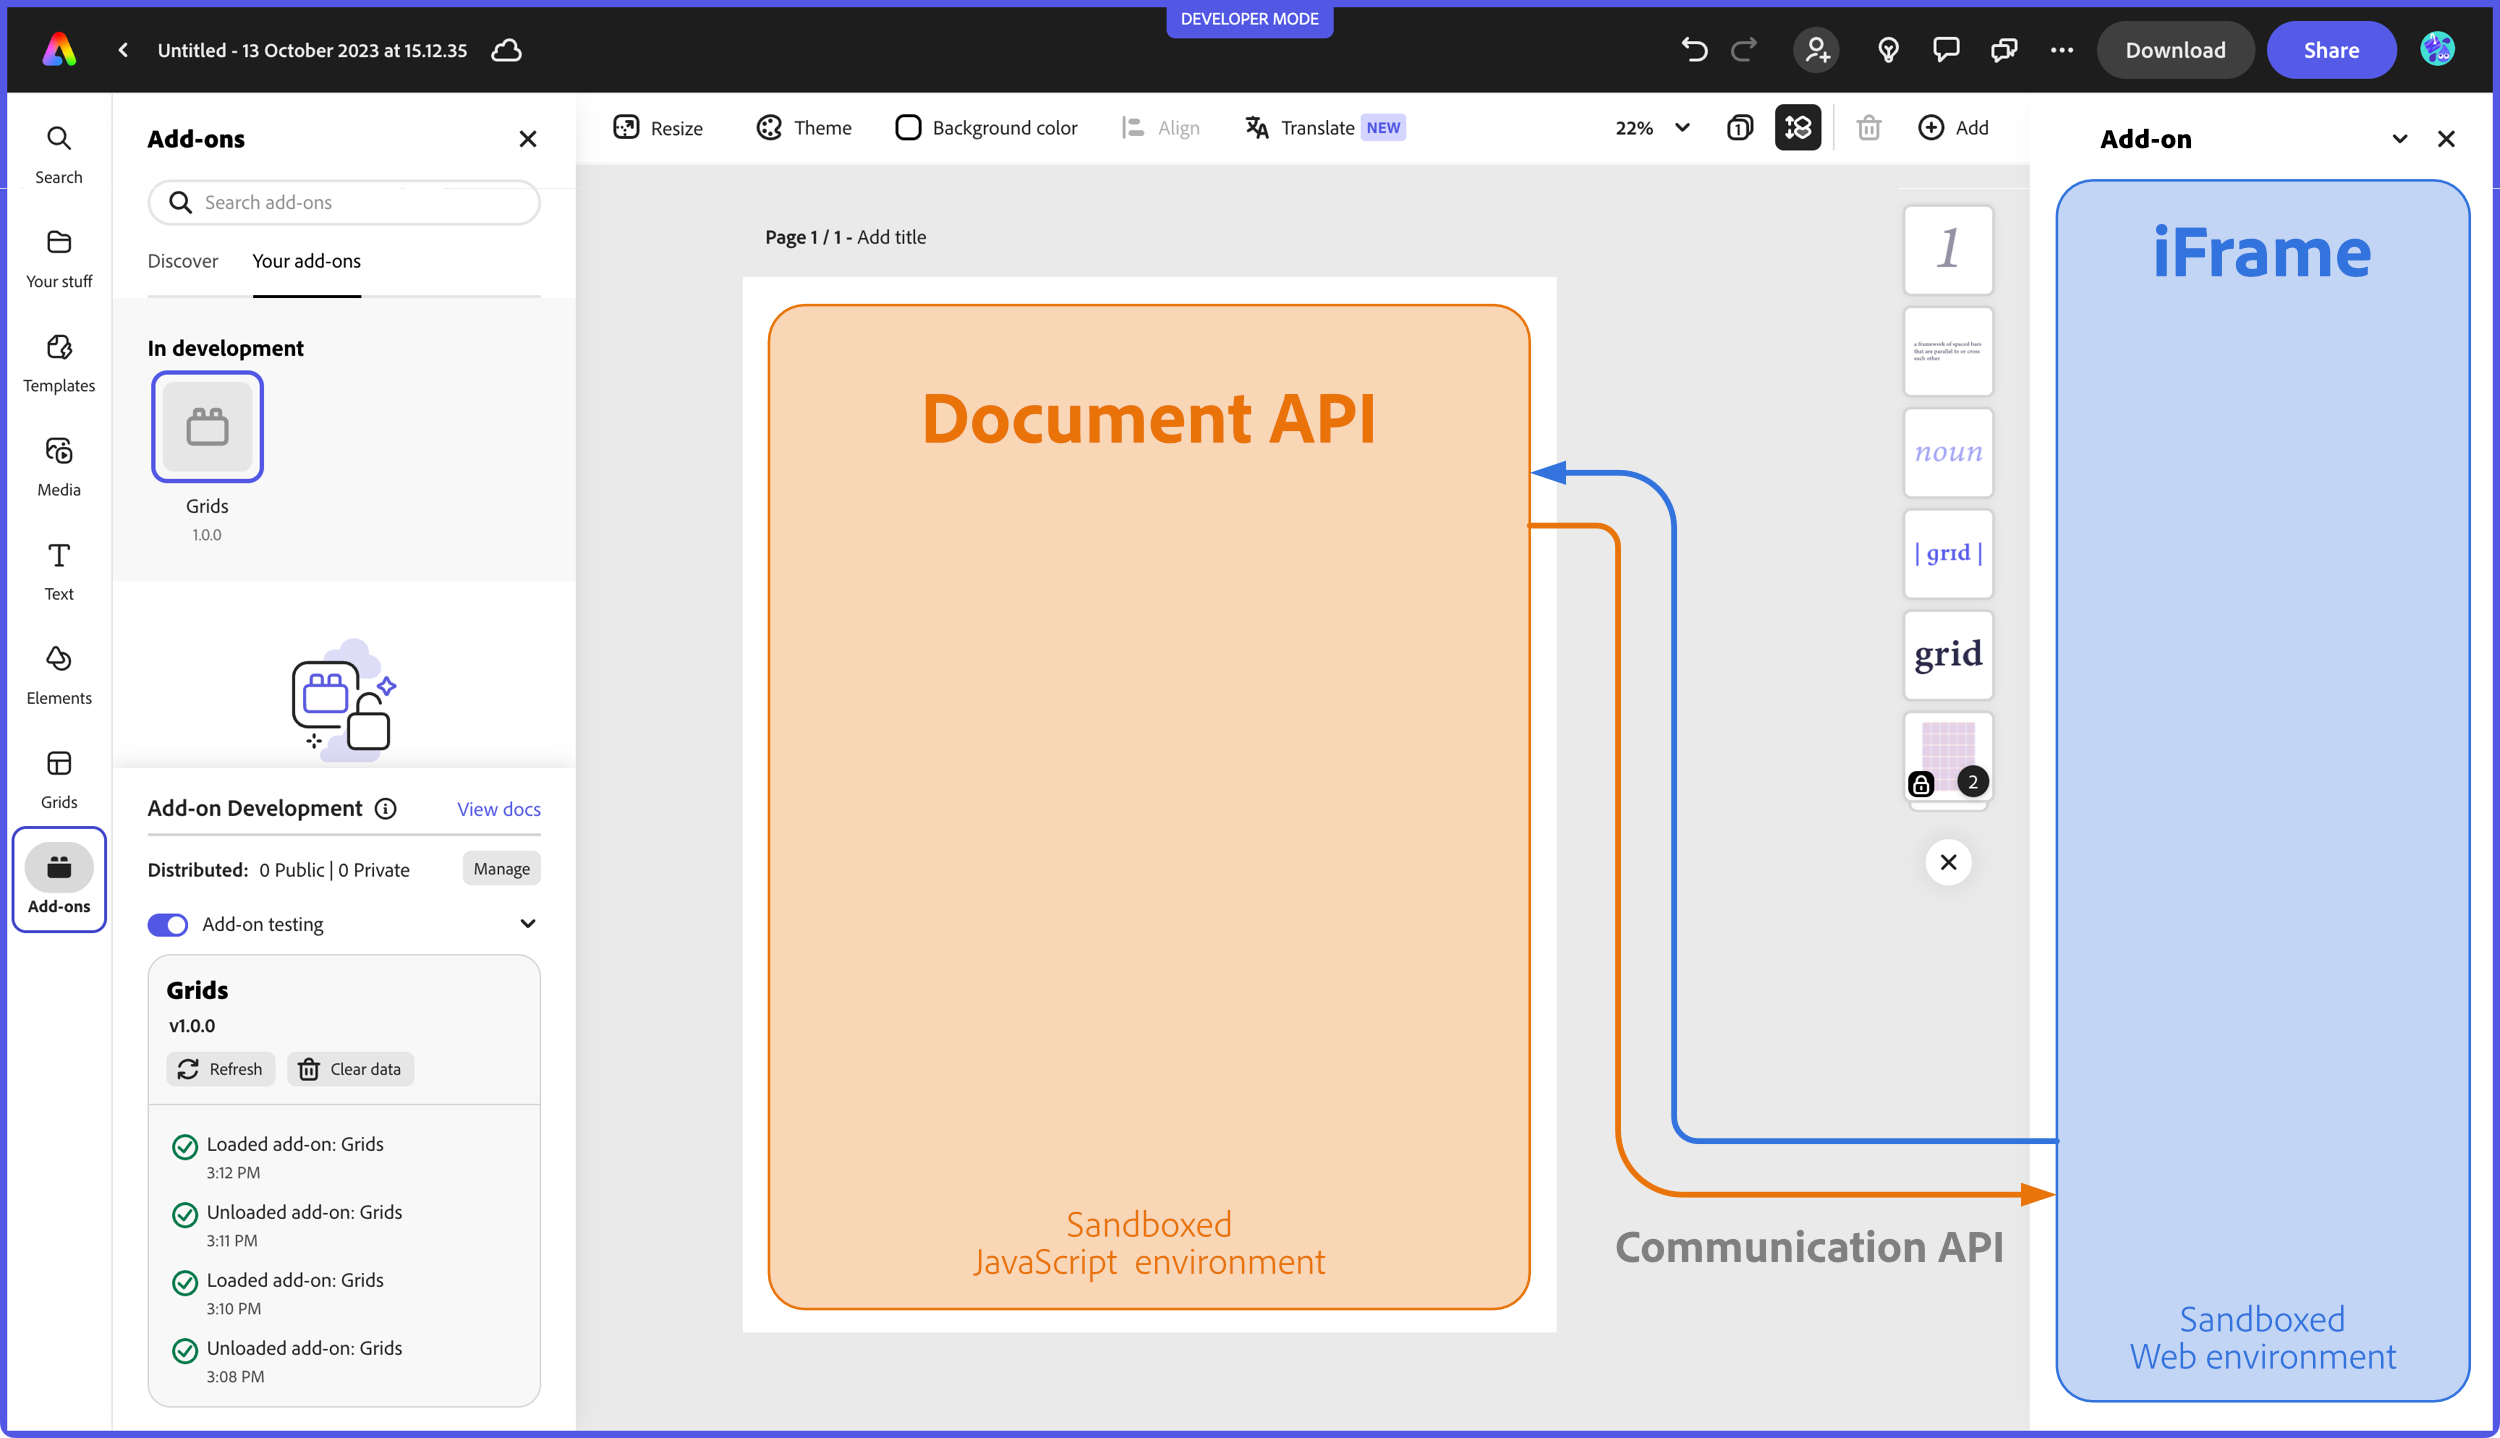
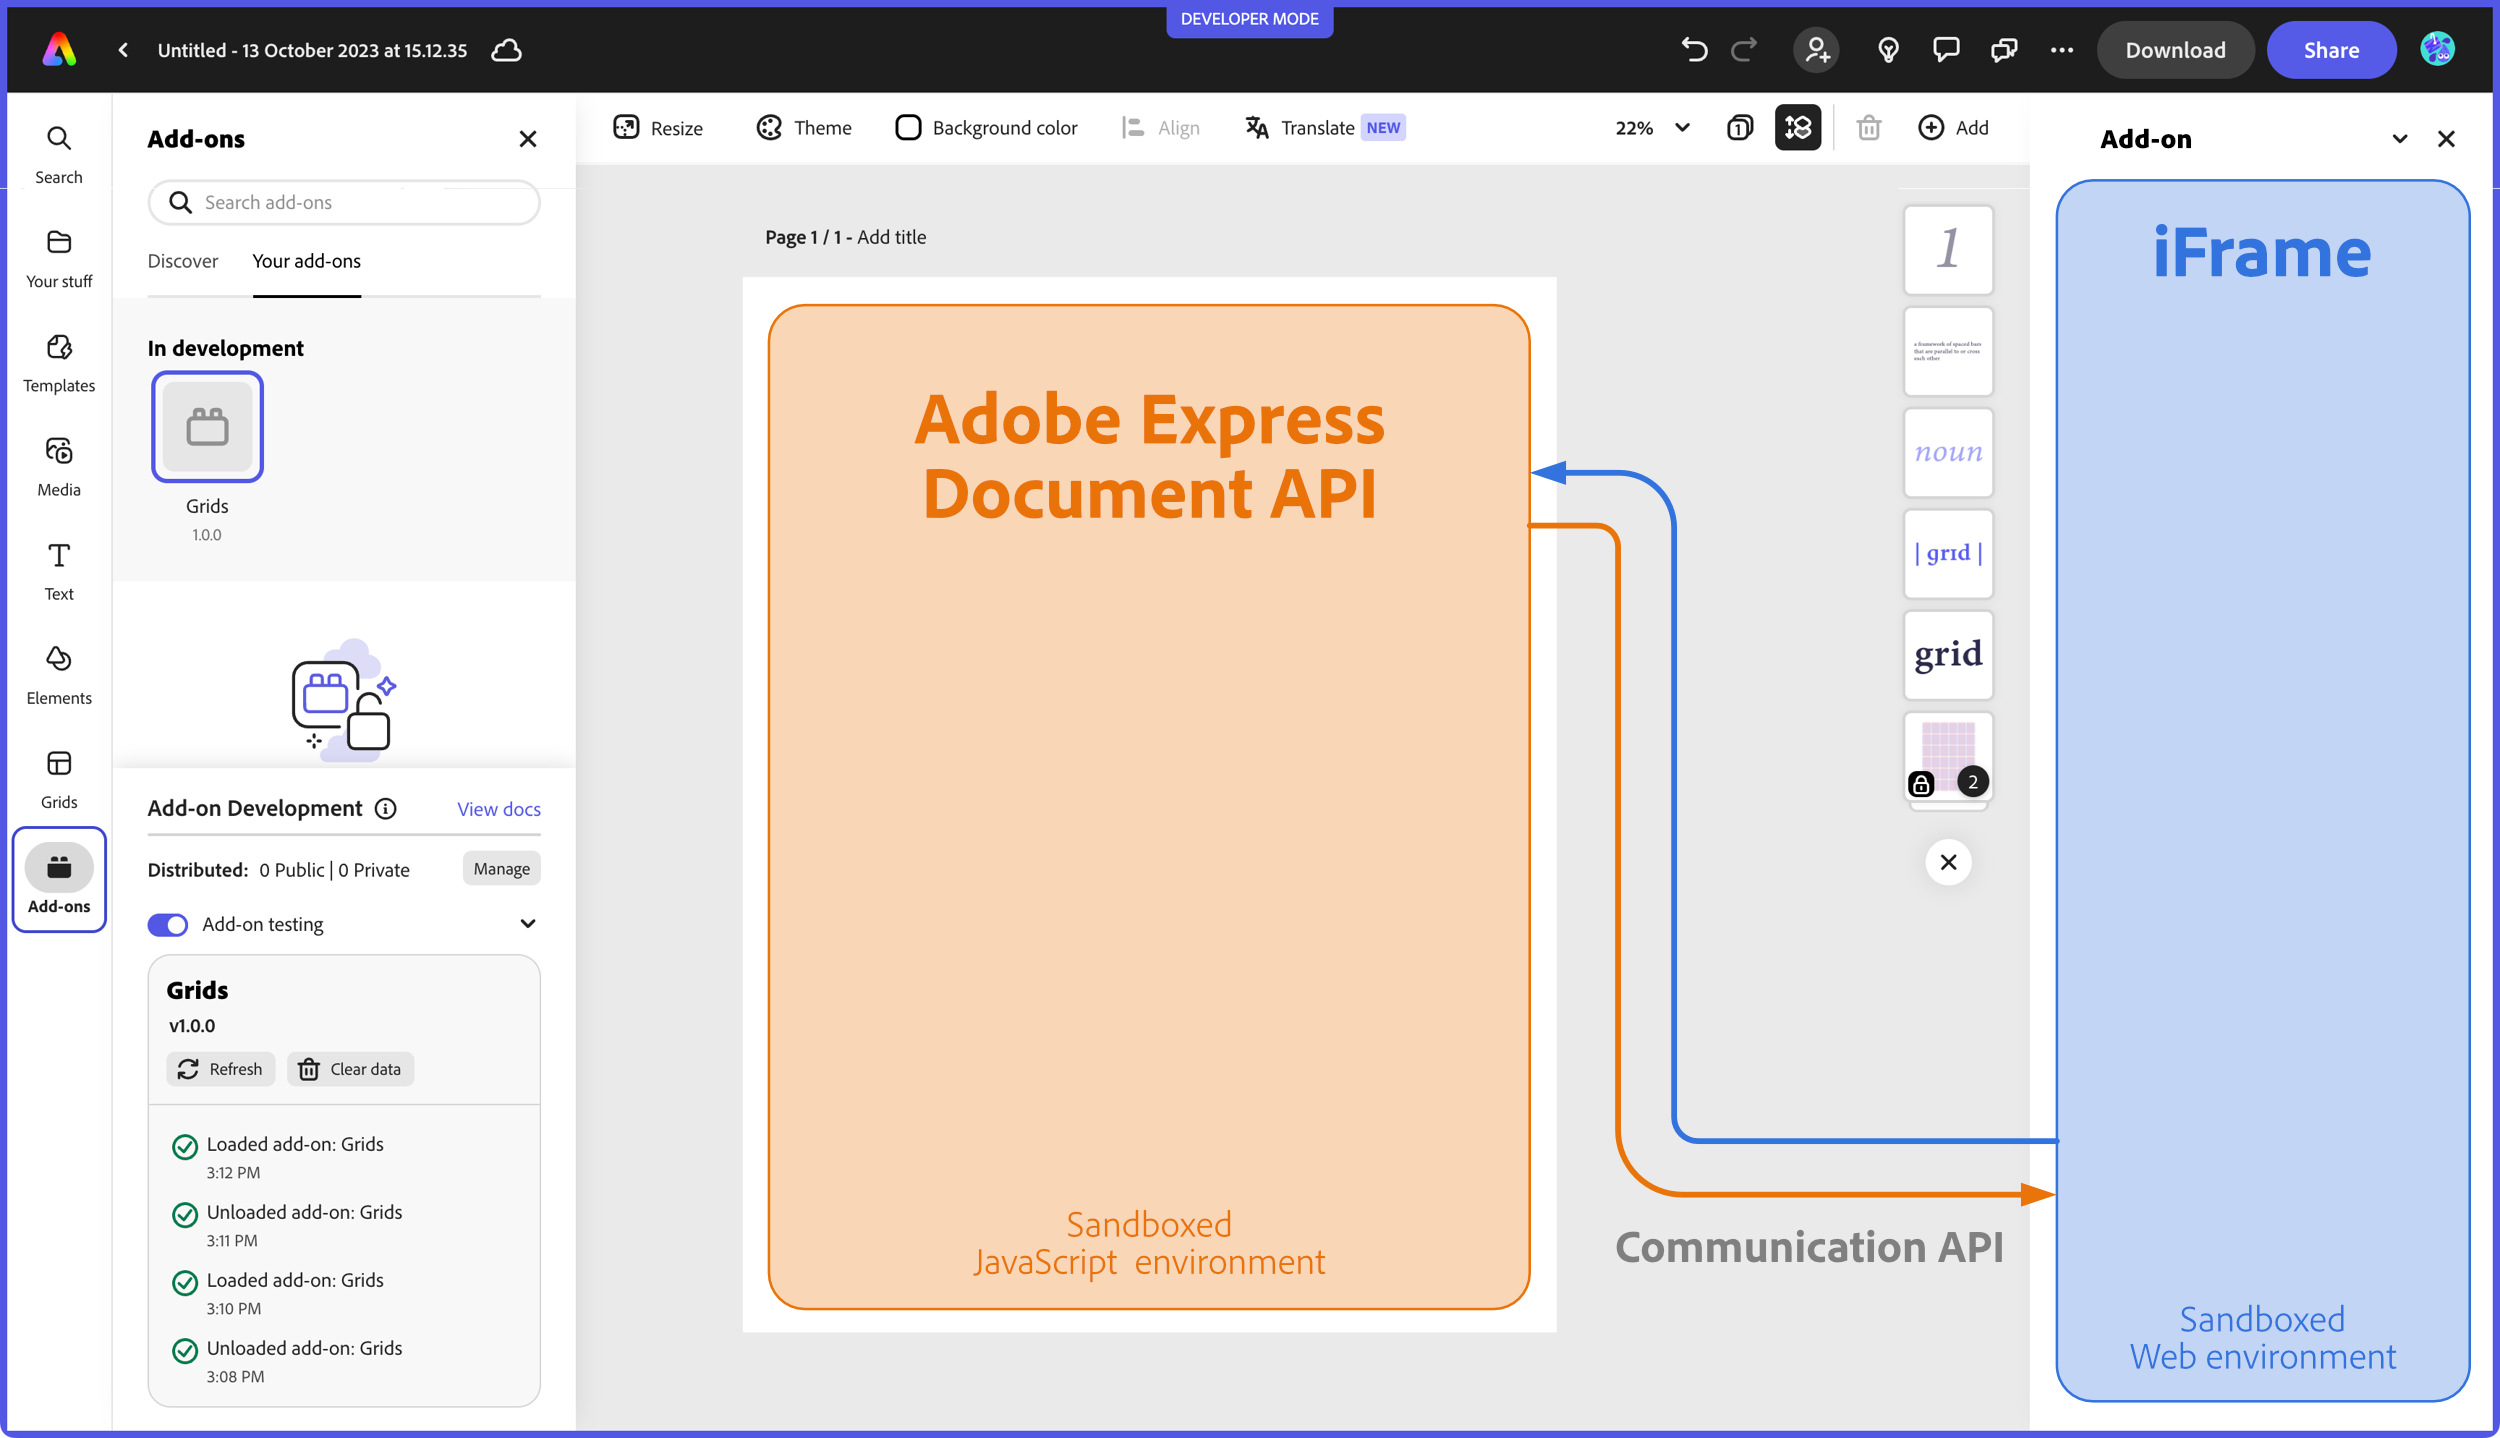
Align with HZ terminology Adobe Express Document API Authoring Sandbox (nee Script Runtime)

Changed region(s): [[0.3432, 0.2754, 0.5616, 0.3672]]

diff --git a/src/pages/guides/getting_started/tut.md b/src/pages/guides/getting_started/tut.md
@@ -2,7 +2,8 @@
 keywords:
   - Adobe Express
   - Express Add-on SDK
-  - Express Editor
+  - Express Document API
+  - Authoring Sandbox
   - Adobe Express
   - Add-on SDK
   - SDK
@@ -10,20 +11,19 @@ keywords:
   - Extend
   - Extensibility
   - API
-  - Document API
-title: Document API tutorial
-description: This is a Document API in-depth tutorial
+title: Adobe Express Document API tutorial
+description: This is an Adobe Express Document API in-depth tutorial
 contributors:
   - https://github.com/undavide
 ---
 
-# Document API tutorial
+# Adobe Express Document API tutorial
 
-This tutorial will guide you through the creation of your first Express add-on based on the Document API.
+This tutorial will guide you through the creation of your first Express add-on based on the Adobe Express Document API.
 
 ## Introduction
 
-Hello, and welcome to this Document API tutorial, where we'll build together a **fully functional Grids System add-on** from scratch. Grid systems are widely used in the design world to bring structure and consistency to all visual content, from flyers to web pages or social media posts.
+Hello, and welcome to this Adobe Express Document API tutorial, where we'll build together a **fully functional Grids System add-on** from scratch. Grid systems are widely used in the design world to bring structure and consistency to all visual content, from flyers to web pages or social media posts.
 
 ![](img/tut/grid-addon.png)
 
@@ -40,11 +40,11 @@ Your add-on will allow users to create a variable number of rows and columns, co
 <!-- List block here -->
 <ListBlock slots="text1, text2" repeat="4" iconColor="#2ac3a2" icon="disc" variant="fullWidth" />
 
-iFrame and Script Runtime communication
+iFrame and Authoring Sandbox communication
 
 Spectrum Web Components
 
-Document API
+Adobe Express Document API
 
 Color Pickers
 
@@ -58,10 +58,10 @@ Context permanence
 
 ### Getting Started with the Document API
 
-As part of the [Script Runtime](/references/scriptruntime/index.md), the Document API is a powerful tool that extends the capabilities of Adobe Express add-ons, offering direct interaction with the open document. Let's take a moment to review the difference between the two core components of add-ons' architecture.
+As part of the [Authoring Sandbox](/references/scriptruntime/index.md), the Adobe Express Document API (from now on, Document API) is a powerful tool that extends the capabilities of Adobe Express add-ons, offering direct interaction with the open document. Let's take a moment to review the difference between the two core components of add-ons' architecture.
 
 - The **iFrame** hosts the add-on User Interface and runs its internal logic. You can think about it as a web application operating in a sandboxed environment: it needs to be separate from the rest of the Adobe Express content for security reasons, which is precisely why the add-on is hosted within an `<iframe>` element (a detailed technical description is found [here](/guides/develop/context.md#iframe-sandbox)). If you come from a CEP/UXP background, it's akin to developing the panel of an extension or plugin.
-- The **Script Runtime**: allows you to operate on the document. It's a sandboxed JavaScript environment that communicates with the iFrame (thanks to the [Communication API](/references/scriptruntime/communication/)), providing access to the [Document API](/references/scriptruntime/editor/). Drawing the parallel with CEP and UXP again, it represents scripting; that is, the possibility to drive Adobe Express programmatically and, for example, add pages or artboards, create new shapes, rotate or group them, etc.
+- The **Authoring Sandbox**: allows you to operate on the document. It's a sandboxed JavaScript environment that communicates with the iFrame (thanks to the [Communication API](/references/scriptruntime/communication/)), providing access to the [Document API](/references/scriptruntime/editor/). Drawing the parallel with CEP and UXP again, it represents scripting; that is, the possibility to drive Adobe Express programmatically and, for example, add pages or artboards, create new shapes, rotate or group them, etc.
 
 This is a high-level overview of the overall structure; while the implementation has more technical nuances, there's no need to dive deeper now.
 
@@ -79,7 +79,7 @@ npm run start
 
 This will install the required dependencies, build the project, and then serve it locally on port 5241; if you need more clarification about how to load an add-on in Adobe Express, please refer to the [quickstart](/guides/getting_started/quickstart.md) guide for a step-by-step walkthrough.
 
-Before jumping into the code, let's look at how the project is structured. At the time of this writing, the CLI provides a few templates, but Only ReactJS-based ones include the Script Runtime while also having a Webpack configuration, which is preferable when using Spectrum Web Components (SWC). This project provides support for both of them.
+Before jumping into the code, let's look at how the project is structured. At the time of this writing, the CLI provides a few templates, but Only ReactJS-based ones include the Authoring Sandbox while also having a Webpack configuration, which is preferable when using Spectrum Web Components (SWC). This project provides support for both of them.
 
 ![](img/tut/grid-addon-folder-structure.png)
 
@@ -112,8 +112,8 @@ If you're wondering about `script/shapeUtils.js`, it is an auxiliary file contai
 
 <head>
     <meta charset="UTF-8" />
-    <meta name="description" content="Adobe Express Add-on tutorial using JavaScript and the Script Runtime" />
-    <meta name="keywords" content="Adobe, Express, Add-On, JavaScript, Script Runtime, Document API" />
+    <meta name="description" content="Adobe Express Add-on tutorial using JavaScript and the Authoring Sandbox" />
+    <meta name="keywords" content="Adobe, Express, Add-On, JavaScript, Authoring Sandbox, Document API" />
     <meta name="viewport" content="width=device-width, initial-scale=1.0" />
     <title>Grids add-on</title>
     <link rel="stylesheet" href="styles.css">
@@ -149,7 +149,7 @@ addOnUISdk.ready.then(async () => {
   // Get the UI runtime.
   const { runtime } = addOnUISdk.instance;
   const scriptApi = await runtime.apiProxy("script");
-  scriptApi.log("Script runtime up and running.");
+  scriptApi.log("Authoring Sandbox up and running.");
 
   // Enabling CTA elements only when the addOnUISdk is ready
   createShapeButton.disabled = false;
@@ -226,7 +226,7 @@ runtime.exposeApi({
 });
 ```
 
-It's also possible to expose iFrame methods to the Script Runtime, i.e., using `apiProxy()` passing `"panel"`, but it's outside the scope of this tutorial—please refer to [this sample](/samples.md#communication-iframe-script-runtime-sample) to see it in action.
+It's also possible to expose iFrame methods to the Authoring Sandbox, i.e., using `apiProxy()` passing `"panel"`, but it's outside the scope of this tutorial—please refer to [this sample](/samples.md#communication-iframe-script-runtime-sample) to see it in action.
 
 ## The Document API
 
@@ -454,7 +454,7 @@ Please refer to the source code for other details on the HTML structure, which a
 
 ### Collecting values from the UI
 
-Let's finish the UI, completing the code for `ui/index.js`. As you can see, it is all standard JavaScript: besides the color pickers we've just discussed, Rows, Columns and Gutter values are initialized (lines 17-19); the Script Runtime is retrieved, and everything the Document API exposes is stored in the `scriptApi` constant (lines 9-10).
+Let's finish the UI, completing the code for `ui/index.js`. As you can see, it is all standard JavaScript: besides the color pickers we've just discussed, Rows, Columns and Gutter values are initialized (lines 17-19); the Authoring Sandbox is retrieved, and everything the Document API exposes is stored in the `scriptApi` constant (lines 9-10).
 
 <!-- Code below -->
 <CodeBlock slots="heading, code" repeat="2" languages="index.html, ui/index.js"/>
@@ -505,7 +505,7 @@ import addOnUISdk from "https://new.express.adobe.com/static/add-on-sdk/sdk.js";
 addOnUISdk.ready.then(async () => {
   console.log("addOnUISdk is ready for use.");
 
-  // Get the Script Runtime.
+  // Get the Authoring Sandbox.
   const { runtime } = addOnUISdk.instance;
   const scriptApi = await runtime.apiProxy("script");
 
@@ -596,7 +596,7 @@ function start() {
 start();
 ```
 
-When the user clicks the Create button, the parameters from the UI are properly collected, passed to `addGrid()` in the Script Runtime, and logged. So far, so good, the Communication API does its job.
+When the user clicks the Create button, the parameters from the UI are properly collected, passed to `addGrid()` in the Authoring Sandbox, and logged. So far, so good, the Communication API does its job.
 
 ![](img/tut/grid-addon-console.png)
 
@@ -687,7 +687,7 @@ import addOnScriptSdk from "AddOnScriptSdk";
 import { editor } from "express";
 import { addColumns, addRows } from "./shapeUtils";
 
-// Get the Script runtime.
+// Get the Authoring Sandbox.
 const { runtime } = addOnScriptSdk.instance;
 
 function start() {
@@ -910,7 +910,7 @@ Congratulations! You've coded from scratch the Grids Design System add-on. This 
 
 Let's review the concepts covered in this tutorial and how they've been implemented in the Grids add-on.
 
-- The **iFrame** and the **Script Runtime** are two distinct entities able to share contexts via the Communication API. We've used the `exposeApi()` method of the `runtime` object to allow the iFrame to invoke functions in the Document API domain.
+- The **iFrame** and the **Authoring Sandbox** are two distinct entities able to share contexts via the Communication API. We've used the `exposeApi()` method of the `runtime` object to allow the iFrame to invoke functions in the Document API domain.
 - The **Document API** provides access to Adobe Express' Document Object Model, which defines containment structures and inheritance hierarchies. We've retrieved the document, its pages, and artboards; created, moved and assigned blending modes to shapes; created, populated and locked groups.
 - Nodes (elements) in Adobe Express documents can be added to the document in a position relative to the currently active selection or targeting a container as the **insertion point**; we've seen how `ContainerNode` elements have a `children` collection to `append()` elements to.
 - The Document API **context is permanent** in between iFrame calls. We've seen that it's possible to store a reference to a Node within the exposed methods' closure and act upon it after its creation.
@@ -931,8 +931,8 @@ The code for this project can be downloaded [here](https://github.com/undavide/e
 
 <head>
     <meta charset="UTF-8" />
-    <meta name="description" content="Adobe Express Add-on tutorial using JavaScript and the Script Runtime" />
-    <meta name="keywords" content="Adobe, Express, Add-On, JavaScript, Script Runtime, Document API" />
+    <meta name="description" content="Adobe Express Add-on tutorial using JavaScript and the Authoring Sandbox" />
+    <meta name="keywords" content="Adobe, Express, Add-On, JavaScript, Authoring Sandbox, Document API" />
     <meta name="viewport" content="width=device-width, initial-scale=1.0" />
     <title>Grids add-on</title>
     <link rel="stylesheet" href="styles.css">
@@ -994,7 +994,7 @@ import addOnUISdk from "https://new.express.adobe.com/static/add-on-sdk/sdk.js";
 addOnUISdk.ready.then(async () => {
   console.log("addOnUISdk is ready for use.");
 
-  // Get the Script runtime.
+  // Get the Authoring Sandbox.
   const { runtime } = addOnUISdk.instance;
   const scriptApi = await runtime.apiProxy("script");
 
@@ -1125,7 +1125,7 @@ import addOnScriptSdk from "AddOnScriptSdk";
 import { editor } from "express";
 import { addColumns, addRows } from "./shapeUtils";
 
-// Get the Script runtime.
+// Get the Authoring Sandbox.
 const { runtime } = addOnScriptSdk.instance;
 
 var gridRef = null;
